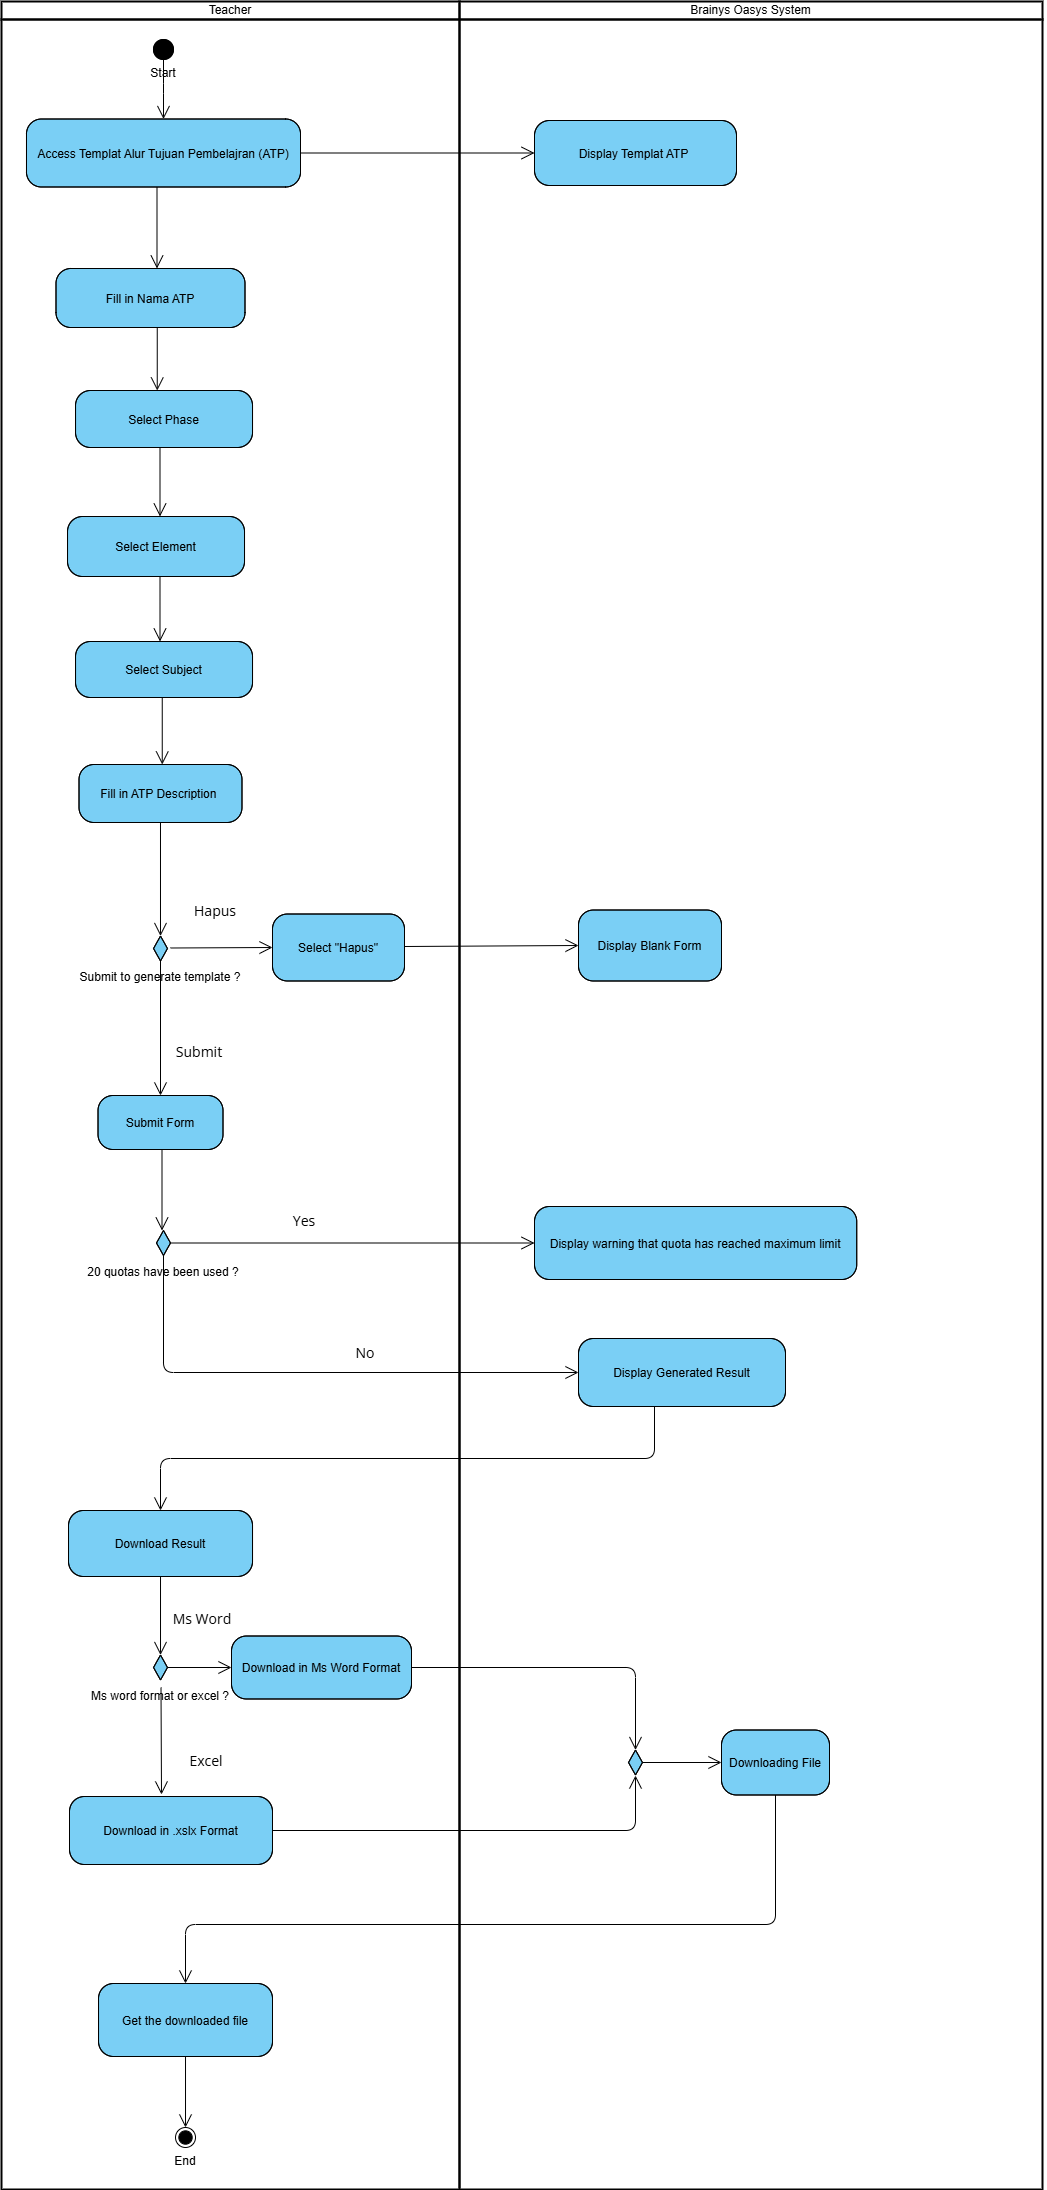
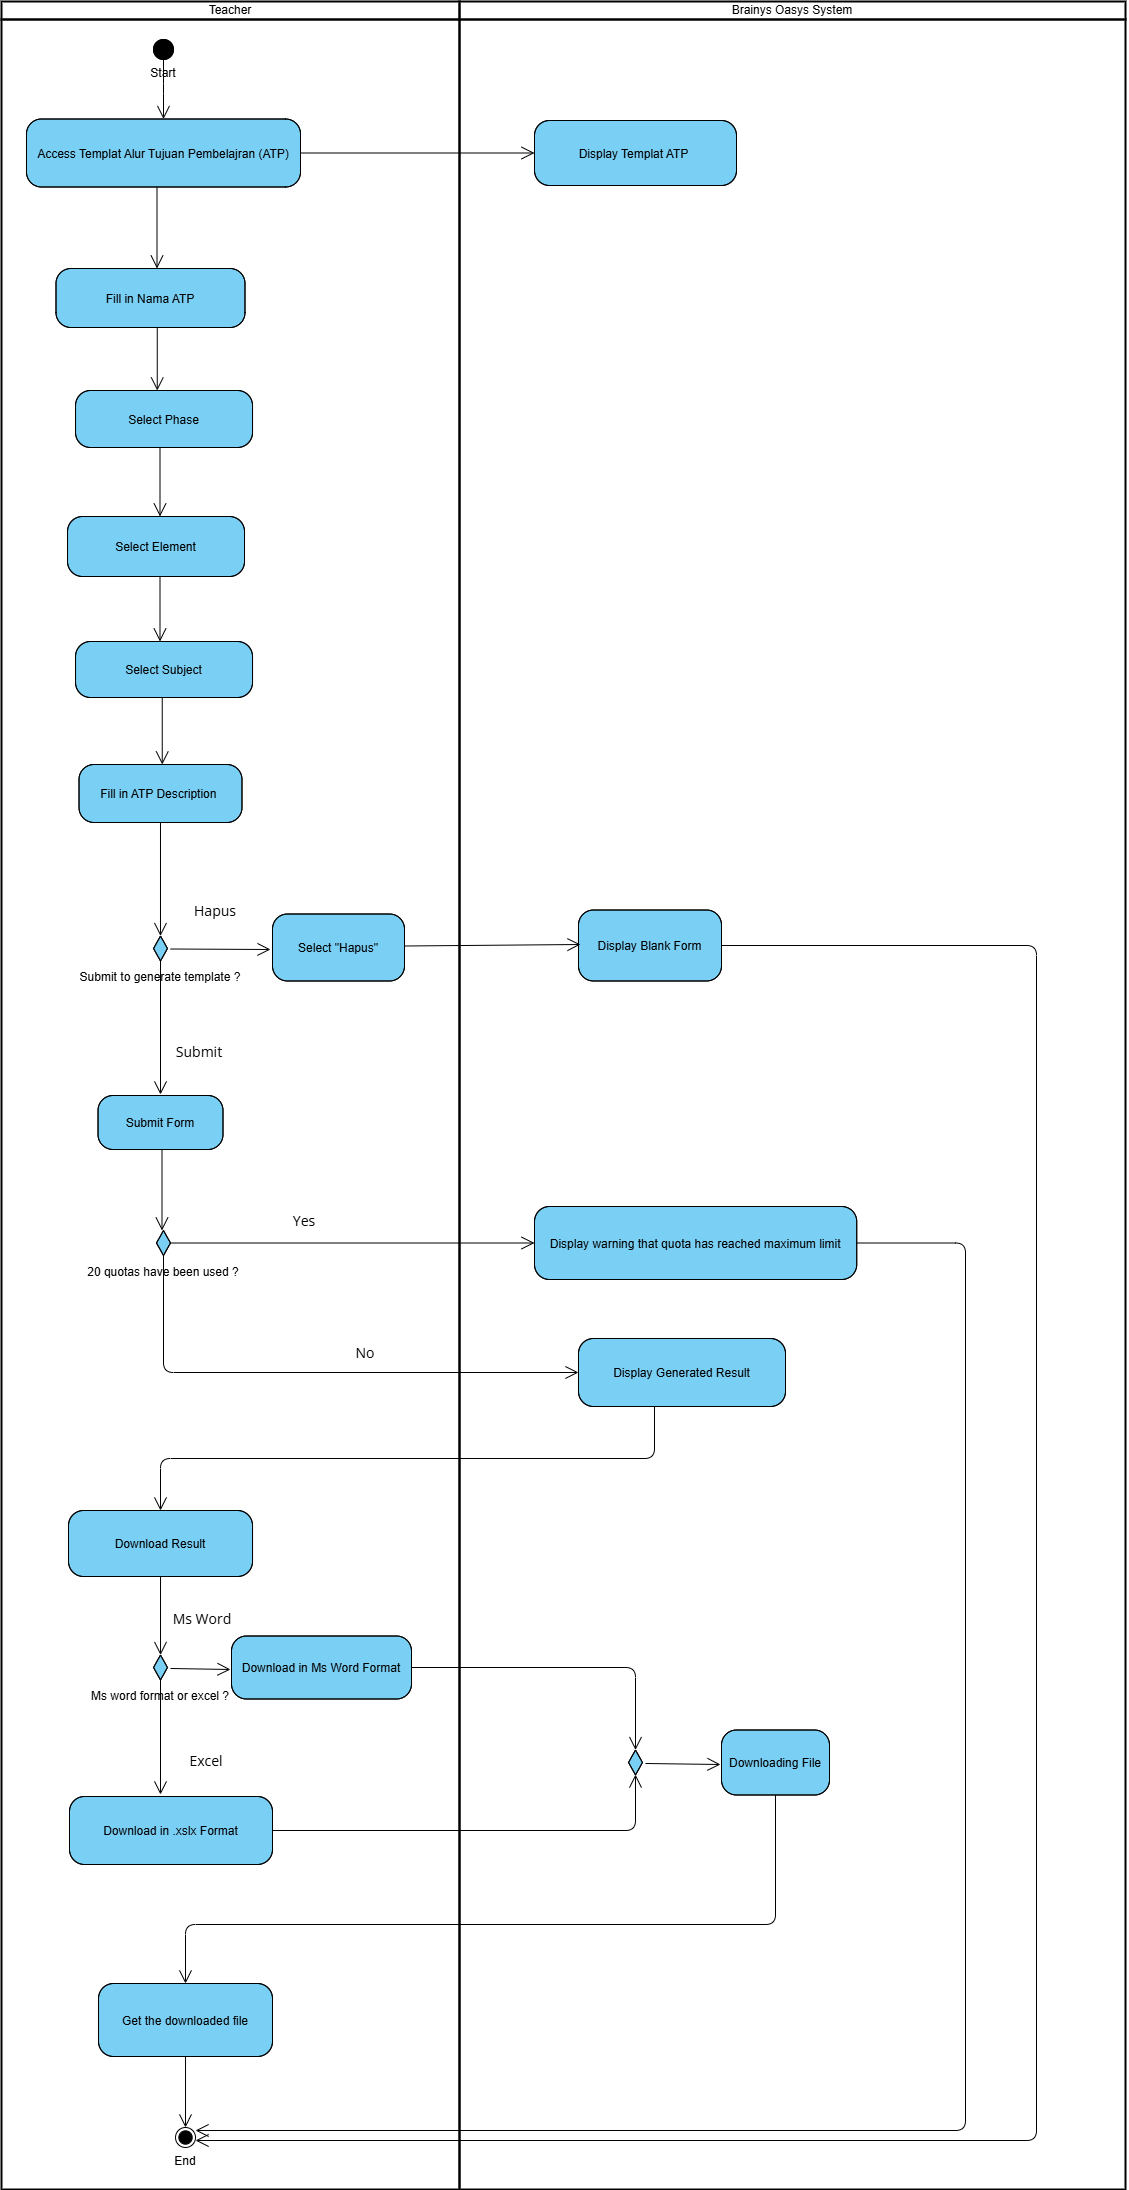
update content in projects section and socmed link

diff --git a/src/components/Contact.jsx b/src/components/Contact.jsx
@@ -136,7 +136,7 @@ const Contact = () => {
             <FiLinkedin size={26} />
           </a>
           <a 
-            href="mailto:work.sufiana42@gmail.com?subject=Contact%20from%20WebProfile" 
+            href="mailto:@gmail.com?subject=Contact%20from%20WebProfile" 
             className="social-icon"
             title={t('contact.social.email')}
           >
